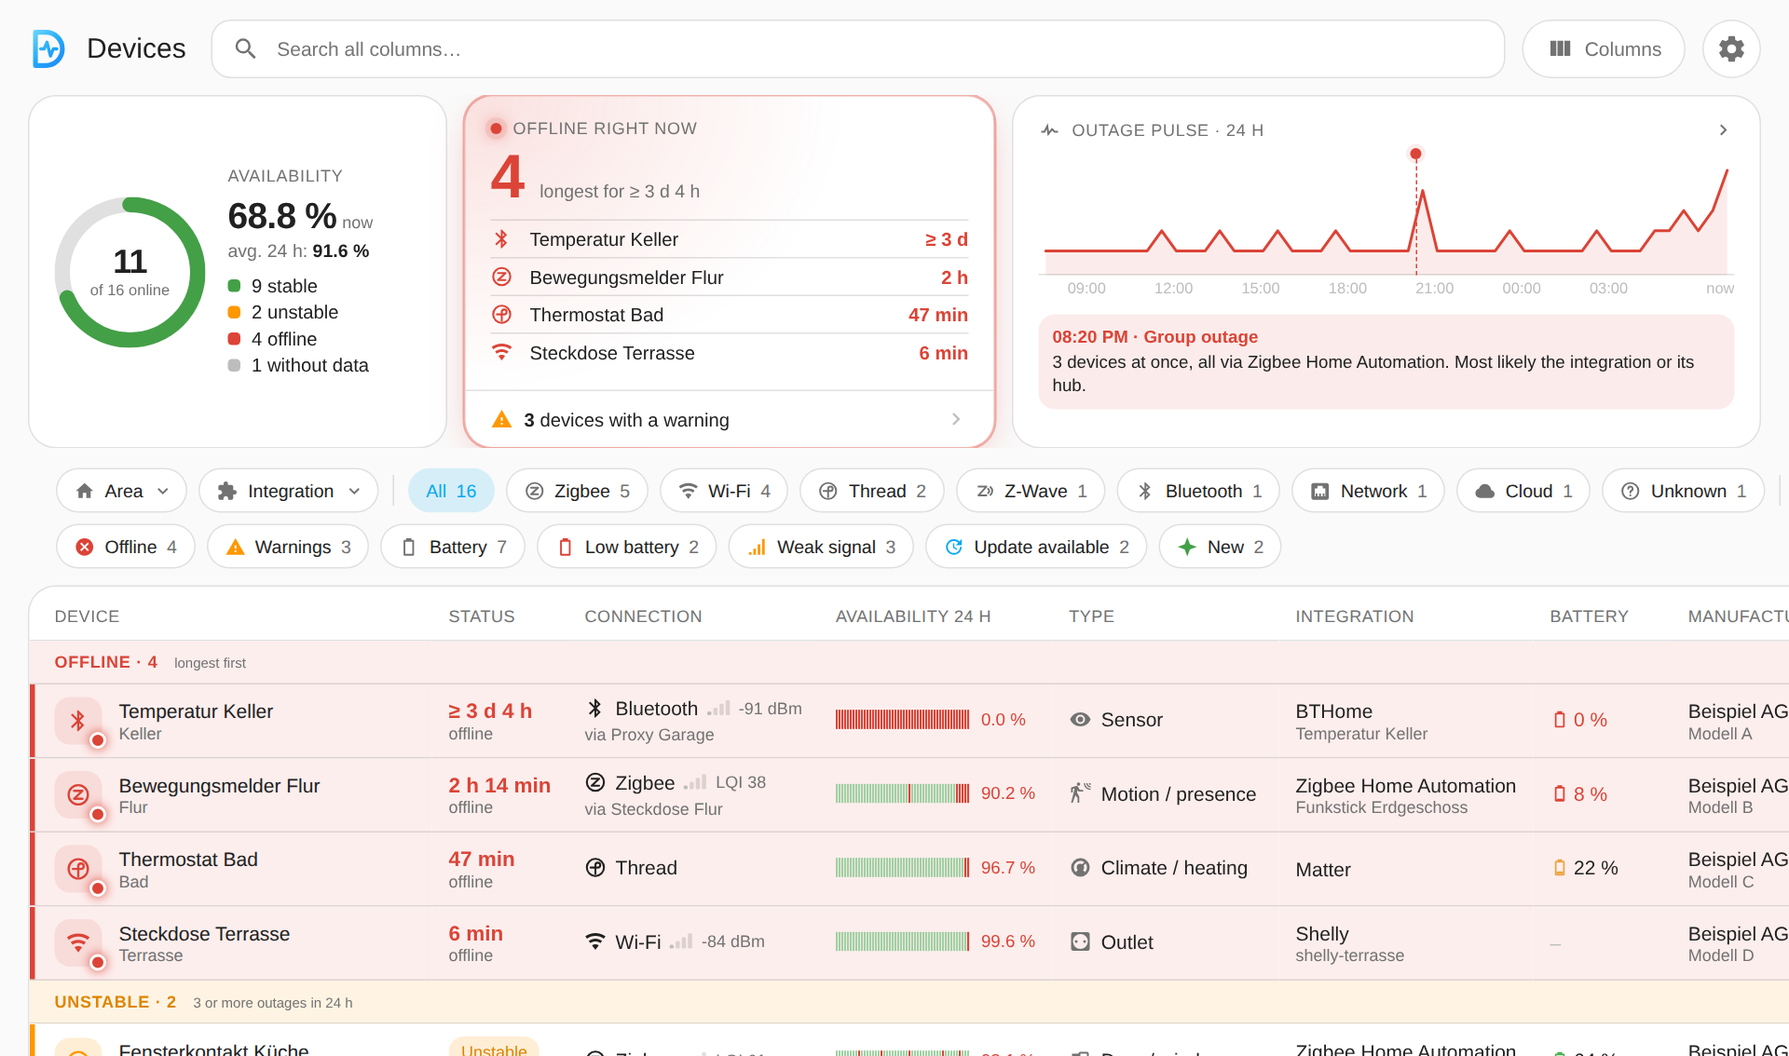
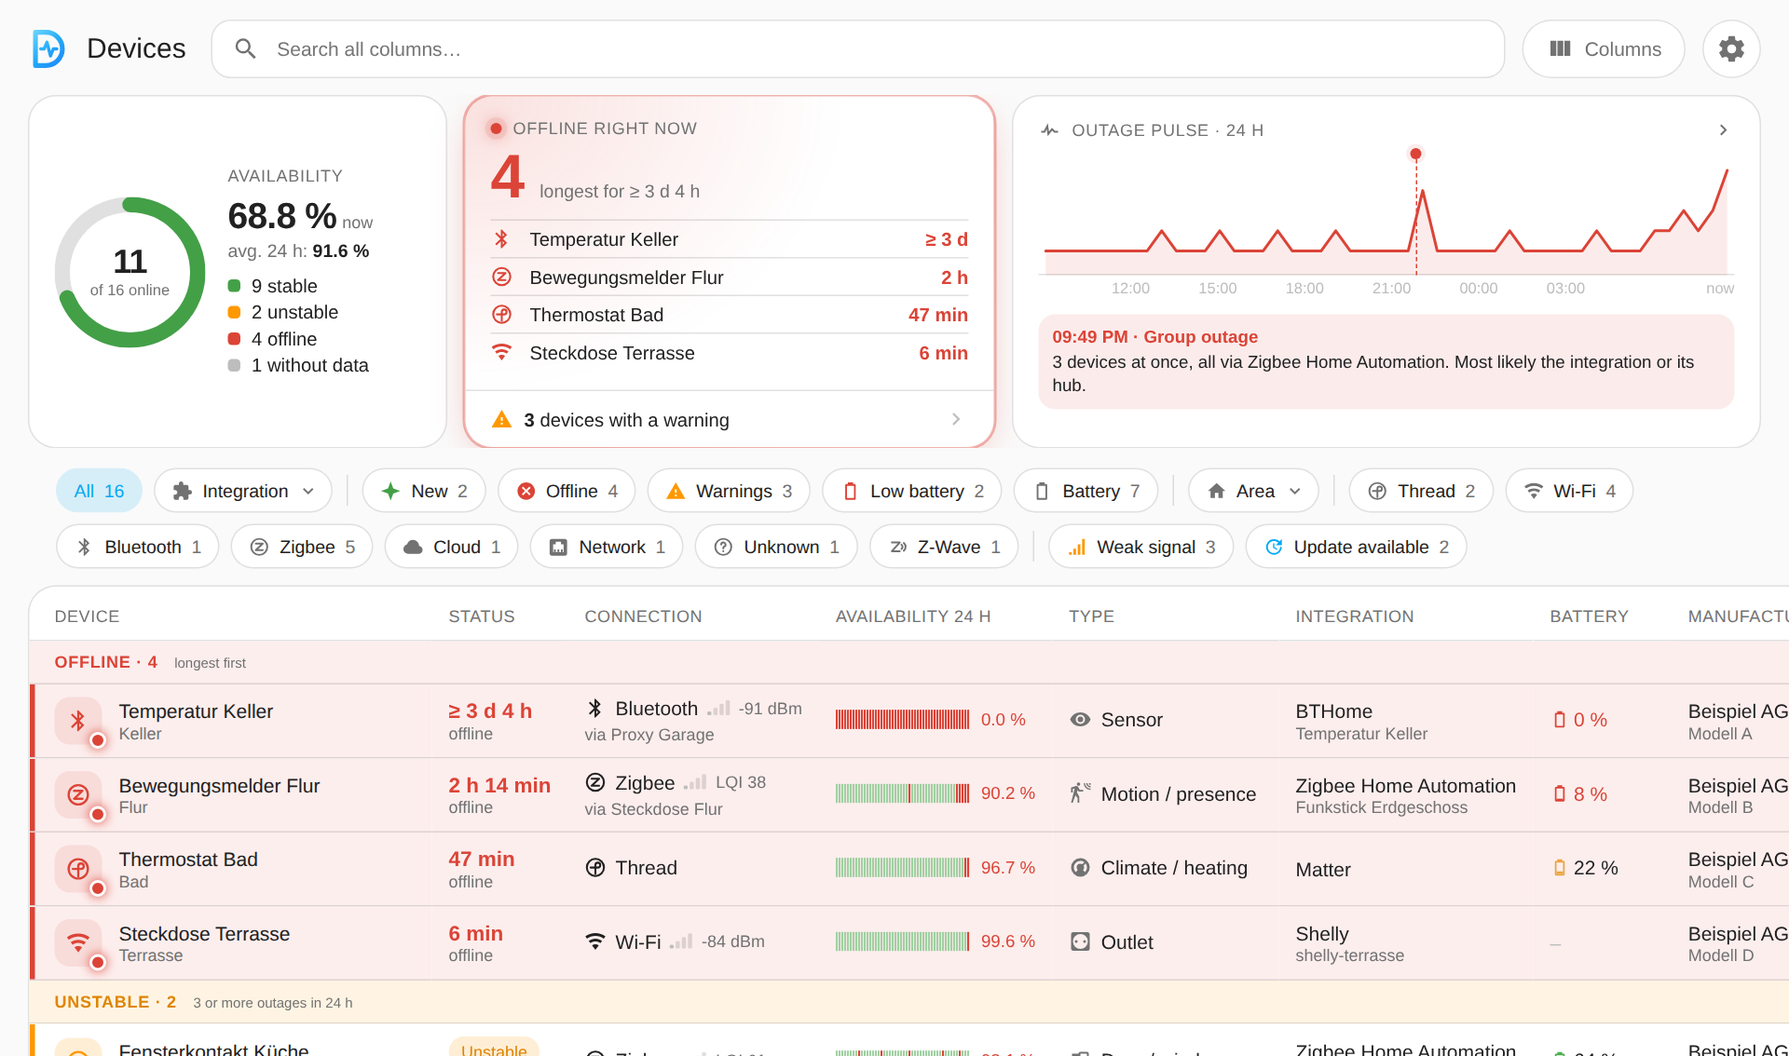
1.18.0: Startwerte für neue Installationen, Haftgruppe deckt Dialog-Kopf nicht mehr ab
- Standardfolge der Chips fest (Panel, CHIP_DEFAULT): "Alle" angeheftet, dann
  Integration, Neu, Ausgefallen, Warnungen, Batterie niedrig, Batterie, Bereich,
  Thread, WLAN, Bluetooth, Zigbee, LAN, Cloud, Matter, Netzwerk, Unbekannt,
  Z-Wave, Schwacher Empfang, Update verfügbar, Eigene Einstellung; gilt auch
  für "Standardreihenfolge"
- const.NEW_INSTALL_OPTIONS beim Einrichten (config_flow): Inhalt der
  Ausfall-Meldung (Bereich, Integration, Verbindungsart, Offline seit,
  Batterie zuletzt), Inhalt der Batterie-Meldung (Stand, Bereich, Integration),
  Chip "Eigene Einstellung" ausgeblendet; Bereich und Z-Wave bleiben sichtbar
- Bestehende Installationen behalten Meldungsinhalt und Chip-Sichtbarkeit
- Fehler: Die Haftgruppe der Chip-Vorschau deckte beim Scrollen den Kopf des
  Dialogs ab (isolation am Streifen, z-index 4 für Kopf und Aktionsleiste)
- Bereichs-Popover öffnet unter dem Chip "Bereich" (nicht unter "Integration")
- Tests: test_init.py, chiporder-e2e (Überdeckung per elementFromPoint), area-,
  chips-, hidechips-, integ-, table-e2e nachgezogen; README-Bilder der Übersicht

Claude-Session: https://claude.ai/code/session_01U1q7hu4Br2u4E6fFdEJMgU

Changed region(s): [[0.0312, 0.4321, 0.9688, 0.5247], [0.6562, 0.2469, 0.9062, 0.2778], [0.5938, 0.2469, 0.625, 0.2778]]

diff --git a/custom_components/device_panel/panel/styles.js b/custom_components/device_panel/panel/styles.js
@@ -403,7 +403,7 @@ dialog.device::backdrop, dialog.settings::backdrop, dialog.view::backdrop, dialo
    klar, welches Fenster gerade gilt. */
 dialog.stat-dlg::backdrop { background: rgba(0,0,0,0.7); -webkit-backdrop-filter: blur(3px); backdrop-filter: blur(3px); }
 :host([stat-open]) dialog.device .dlg-head .dlg-close { visibility: hidden; }
-.dlg-head { position: sticky; top: 0; z-index: 2; display: flex; align-items: flex-start; gap: 14px; padding: 20px 16px 14px 22px; background: var(--dp-card); }
+.dlg-head { position: sticky; top: 0; z-index: 4; display: flex; align-items: flex-start; gap: 14px; padding: 20px 16px 14px 22px; background: var(--dp-card); }
 .dlg-avatar { flex: none; display: grid; place-items: center; width: 52px; height: 52px; border-radius: 15px; background: var(--dp-primary-soft); color: var(--dp-primary); }
 .dlg-avatar.off { background: var(--dp-error-soft); color: var(--dp-error); }
 .dlg-avatar.warn { background: var(--dp-warning-soft); color: var(--dp-warning); }
@@ -426,7 +426,7 @@ dialog.stat-dlg::backdrop { background: rgba(0,0,0,0.7); -webkit-backdrop-filter
 .dlg-note { margin: 8px 0; color: var(--dp-text2); font-size: 14px; }
 .dlg-note.small { font-size: 12px; color: var(--dp-text3); }
 .dlg-error { margin: 8px 0; padding: 10px 12px; border-radius: 10px; background: var(--dp-error-soft); color: var(--dp-error); font-size: 14px; }
-.dlg-actions { position: sticky; bottom: 0; z-index: 2; display: flex; gap: 8px; padding: 14px 22px calc(16px + env(safe-area-inset-bottom, 0px));
+.dlg-actions { position: sticky; bottom: 0; z-index: 4; display: flex; gap: 8px; padding: 14px 22px calc(16px + env(safe-area-inset-bottom, 0px));
   background: var(--dp-card); border-top: 1px solid var(--dp-divider); }
 .dlg-btn { flex: 1 1 auto; display: inline-flex; align-items: center; justify-content: center; gap: 8px; height: 42px; padding: 0 18px;
   border-radius: 12px; border: 1px solid var(--dp-divider); background: none; font-size: 14px; cursor: pointer; }
@@ -588,7 +588,8 @@ dialog.stat-dlg::backdrop { background: rgba(0,0,0,0.7); -webkit-backdrop-filter
 .chip-prev-pills .chip { height: 28px; padding: 0 10px; font-size: 12.5px; pointer-events: none; }
 .chip-prev-t.phone { margin-top: 12px; }
 .chip-prev-pin { display: inline-grid; place-items: center; width: 22px; height: 22px; border-radius: 999px; background: var(--dp-primary); color: #fff; }
-.chip-prev-strip { display: flex; align-items: center; gap: 8px; overflow-x: auto; scrollbar-width: none; margin: 0 -12px; padding: 4px 12px 6px; }
+/* isolation: Die Haftgruppe (sticky, z-index 2) bleibt in der Vorschau und deckt beim Scrollen den Dialog-Kopf nicht ab. */
+.chip-prev-strip { isolation: isolate; display: flex; align-items: center; gap: 8px; overflow-x: auto; scrollbar-width: none; margin: 0 -12px; padding: 4px 12px 6px; }
 .chip-prev-strip::-webkit-scrollbar { display: none; }
 .chip-prev-strip .chip { flex: none; height: 28px; padding: 0 10px; font-size: 12.5px; pointer-events: none; }
 .chip-prev-strip .chip-pin { position: sticky; left: -12px; z-index: 2; flex: none; display: flex; align-items: center; gap: 8px; margin-left: -12px; padding: 4px 12px; background: var(--dp-bg); }

diff --git a/custom_components/device_panel/panel/device-panel.js b/custom_components/device_panel/panel/device-panel.js
@@ -279,6 +279,14 @@ const CHIP_TAIL = CHIP_OTHER.map(([k]) => k).filter((k) => k !== "area" && k !==
 // trennt eine feine Linie. Auswahlfenster (Bereich, Integration), "Alle" mit den
 // Verbindungsarten (genau eine aktiv) und "Nur Probleme" mit den Hinweisen.
 const chipKind = (key) => (key === "area" || key === "integration" ? "scope" : key === "all" || key in CONN ? "conn" : "tail");
+// Standardfolge ohne gespeicherte Folge (seit 1.18.0, nach dem Bildschirmfoto des
+// Nutzers): "Alle" ist angeheftet, dann die Hinweise, dann die Verbindungsarten,
+// hinten die seltenen Chips.
+const CHIP_DEFAULT = [
+  "all", "pin", "integration", "new", "offline", "problems", "battery", "batteries", "area",
+  "thread", "wifi", "ble", "zigbee", "ethernet", "cloud", "matter", "network", "unknown", "zwave",
+  "signal", "update", "override",
+];
 // Vollständige Folge aus der gespeicherten (leer = Standard): Unbekanntes und
 // Doppelte fallen weg. Verbindungsarten ohne Platz (neue Art, ältere Folge)
 // kommen nach Anzahl der Geräte (counts: Art -> Zahl; connOrder: Ausgangsfolge
@@ -288,7 +296,11 @@ function chipOrder(order, connOrder, counts) {
   const types = orderConns(Object.keys(CONN).map((k) => [k, (counts && counts.get(k)) || 0]), connOrder).map(([k]) => k);
   const known = ["pin", "area", "integration", "all", ...Object.keys(CONN), ...CHIP_TAIL];
   const out = (order || []).filter((k, i, a) => known.includes(k) && a.indexOf(k) === i);
-  if (!out.length) return ["pin", "area", "integration", "all", ...types, ...CHIP_TAIL];
+  if (!out.length) {
+    // Nur eine eigene Folge der Verbindungsarten aus 1.12.0 (ohne chip_order) behält ihre Anordnung.
+    if ((connOrder || []).length) return ["pin", "area", "integration", "all", ...types, ...CHIP_TAIL];
+    return [...CHIP_DEFAULT];
+  }
   const missing = types.filter((k) => !out.includes(k));
   if (missing.length) {
     let at = out.reduce((n, k, i) => (k in CONN ? i : n), -1);
@@ -1953,7 +1965,7 @@ class DevicePanel extends HTMLElement {
   // hinaus (der Chip steht nach dem Kopf oft weit unten); die Liste scrollt.
   _placeAreas() {
     const pop = this.shadowRoot.querySelector(".area-pop");
-    const chip = this.shadowRoot.querySelector(this._pickKind === "integ" ? ".chips .chip.integ" : ".chips .chip.area");
+    const chip = this.shadowRoot.querySelector(this._pickKind === "integ" ? ".chips .chip.integ" : ".chips .chip.area:not(.integ)");
     if (!pop || pop.hidden || !chip) return;
     const b = chip.getBoundingClientRect();
     const width = pop.offsetWidth;

diff --git a/tests/test_init.py b/tests/test_init.py
@@ -10,7 +10,8 @@ from homeassistant.helpers import device_registry as dr
 from homeassistant.helpers import entity_registry as er
 from pytest_homeassistant_custom_component.common import MockConfigEntry, async_fire_time_changed
 
-from custom_components.device_panel.const import DATA_AVAILABILITY, DOMAIN
+from custom_components.device_panel.const import DATA_AVAILABILITY, DOMAIN, NEW_INSTALL_OPTIONS
+from custom_components.device_panel.options_api import values_from
 
 
 async def _setup(hass: HomeAssistant) -> MockConfigEntry:
@@ -57,6 +58,33 @@ async def test_single_instance(hass: HomeAssistant) -> None:
     result = await hass.config_entries.flow.async_init(DOMAIN, context={"source": "user"})
     assert result["type"] == "abort"
     assert result["reason"] == "single_instance_allowed"
+
+
+async def test_new_install_starts_with_start_values(hass: HomeAssistant, hass_ws_client) -> None:
+    """Eine neue Installation bekommt die Startwerte (1.18.0); sie gelten nur dort, nicht für bestehende."""
+    result = await hass.config_entries.flow.async_init(DOMAIN, context={"source": "user"})
+    assert result["type"] == "form"
+    result = await hass.config_entries.flow.async_configure(result["flow_id"], {})
+    assert result["type"] == "create_entry"
+    entry = result["result"]
+    await hass.async_block_till_done()
+    assert entry.options == NEW_INSTALL_OPTIONS
+    # Das Panel bekommt sie wie jede andere Option
+    client = await hass_ws_client(hass)
+    await client.send_json({"id": 1, "type": f"{DOMAIN}/get_options"})
+    values = (await client.receive_json())["result"]["values"]
+    assert values["notify_fields"] == ["area", "integration", "connection", "since", "battery"]
+    assert values["battery_fields"] == ["battery", "area", "integration"]
+    assert values["hide_chips"] == ["override"]
+    assert values["hide_connections"] == []
+    # Die Vorlage bleibt unverändert, auch wenn die Optionen geändert werden
+    hass.config_entries.async_update_entry(entry, options={**entry.options, "hide_chips": []})
+    assert NEW_INSTALL_OPTIONS["hide_chips"] == ["override"]
+    # Eine bestehende Installation ohne gespeicherte Werte behält den bisherigen Standard
+    other = MockConfigEntry(domain=DOMAIN, title="Device Panel 2")
+    assert other.options == {}
+    assert values_from(other.options)["notify_fields"] == ["area", "integration", "since"]
+    assert values_from(other.options)["hide_chips"] == []
 
 
 async def test_remove_deletes_own_files(hass: HomeAssistant, hass_ws_client, hass_storage, freezer) -> None:

diff --git a/custom_components/device_panel/const.py b/custom_components/device_panel/const.py
@@ -13,7 +13,7 @@ PANEL_HTML_FILE = "panel.html"
 STATIC_URL_PATH = f"/{DOMAIN}"
 PANEL_STATIC_URL_PATH = f"{STATIC_URL_PATH}/panel"
 # Cache-Buster: bei jeder Änderung unter panel/ von Hand erhöhen.
-PANEL_VERSION = "65"
+PANEL_VERSION = "66"
 PANEL_PAGE_URL = f"{PANEL_STATIC_URL_PATH}/{PANEL_HTML_FILE}?v={PANEL_VERSION}"
 
 # Mitgeliefertes Bild für Push-Meldungen (Companion-App, "icon_url"), wie in
@@ -230,9 +230,9 @@ CHIP_KEYS = ("area", "integration", "offline", "problems", "batteries", "battery
 CONNECTION_TYPES = ("zigbee", "thread", "zwave", "matter", "ble", "wifi", "ethernet", "network", "cloud", "unknown")
 # Reihenfolge aller Chips über der Liste (seit 1.13.0, seit 1.14.0 eine Folge):
 # "all" und jede Verbindungsart sind Einträge wie die übrigen Chips. Leer =
-# Standardfolge (Bereich, Integration, "Alle", Verbindungsarten nach Anzahl der
-# Geräte, dann "Ausgefallen", "Warnungen" und die Hinweise); nicht genannte Chips ordnet
-# das Panel in dieser Folge ein. "connections" (1.13.0: "Alle" mit allen
+# Standardfolge des Panels (seit 1.18.0 feste Folge mit angeheftetem "Alle", vorher
+# Bereich, Integration, "Alle" und Verbindungsarten nach Anzahl der Geräte); nicht
+# genannte Chips ordnet das Panel in dieser Folge ein. "connections" (1.13.0: "Alle" mit allen
 # Verbindungsarten als Block) wird beim Lesen zu "all" und CONF_CONNECTION_ORDER.
 CONF_CHIP_ORDER = "chip_order"
 # "pin" (seit 1.15.0) ist kein Chip, sondern der Anheft-Marker: Die sichtbaren
@@ -240,6 +240,16 @@ CONF_CHIP_ORDER = "chip_order"
 # stehen. Ganz vorn (Standard) = nichts angeheftet.
 CHIP_ORDER_KEYS = (*CHIP_KEYS[:2], "all", *CONNECTION_TYPES, *CHIP_KEYS[2:], "pin")
 CHIP_ORDER_LEGACY_BLOCK = "connections"
+# Startwerte einer neuen Installation (seit 1.18.0, nach dem Bildschirmfoto des
+# Nutzers): Inhalt der Meldungen und der ausgeblendete Chip "Eigene Einstellung"
+# (Bereich und Z-Wave bleiben sichtbar, Entscheid des Nutzers). Sie stehen beim
+# Einrichten in den Optionen; bestehende Installationen behalten, was sie haben.
+# Die Standardfolge der Chips steht im Panel (chipOrder, ohne gespeicherte Folge).
+NEW_INSTALL_OPTIONS = {
+    CONF_NOTIFY_FIELDS: ["area", "integration", "connection", "since", "battery"],
+    CONF_BATTERY_FIELDS: ["battery", "area", "integration"],
+    CONF_HIDE_CHIPS: ["override"],
+}
 # Verbindungsart von Hand (Popup, wie der Typ): alle ausser "unbekannt", das
 # ist der Fall ohne Erkennung, kein Wert zum Wählen.
 CONNECTION_MANUAL = tuple(c for c in CONNECTION_TYPES if c != "unknown")

diff --git a/custom_components/device_panel/config_flow.py b/custom_components/device_panel/config_flow.py
@@ -2,6 +2,7 @@
 
 from __future__ import annotations
 
+from copy import deepcopy
 from typing import Any
 
 import voluptuous as vol
@@ -55,6 +56,7 @@ from .const import (
     CONF_CONNECTION_ORDER,
     CONF_HIDE_CHIPS,
     CONF_HIDE_CONNECTIONS,
+    NEW_INSTALL_OPTIONS,
     CHIP_KEYS,
     CONNECTION_TYPES,
     CONF_NOTIFY_CLICK,
@@ -100,7 +102,7 @@ class ConfigFlow(config_entries.ConfigFlow, domain=DOMAIN):
         self, user_input: dict[str, Any] | None = None
     ) -> config_entries.ConfigFlowResult:
         if user_input is not None:
-            return self.async_create_entry(title=PANEL_TITLE, data={})
+            return self.async_create_entry(title=PANEL_TITLE, data={}, options=deepcopy(NEW_INSTALL_OPTIONS))
         return self.async_show_form(step_id="user")
 
     @staticmethod

diff --git a/CHANGELOG.de.md b/CHANGELOG.de.md
@@ -7,6 +7,38 @@ Alle nennenswerten Änderungen an dieser Integration stehen in dieser Datei.
 Das Format folgt [Keep a Changelog](https://keepachangelog.com/de/1.1.0/),
 die Versionsnummern folgen [Semantic Versioning](https://semver.org/lang/de/).
 
+## [1.18.0] - 2026-10-06
+
+Startwerte für neue Installationen.
+
+### Geändert
+
+- Neue Installationen starten mit den Werten, die der Autor nutzt (Wunsch des
+  Nutzers, nach seinen Bildschirmfotos der Einstellungen):
+  - Reihenfolge der Filter-Chips: zuerst "Alle" (angeheftet), dann Integration,
+    Neu, Ausgefallen, Warnungen, Batterie niedrig, Batterie, Bereich, die
+    Verbindungsarten (Thread, WLAN, Bluetooth, Zigbee, LAN, Cloud, Matter,
+    Netzwerk, Unbekannt, Z-Wave) und zuletzt Schwacher Empfang, Update
+    verfügbar und Eigene Einstellung. Ohne gespeicherte Folge ist das auch, was
+    "Standardreihenfolge" wiederherstellt.
+  - Inhalt der Ausfall-Meldung: Bereich, Integration, Verbindungsart, Offline
+    seit und Batterie zuletzt (vorher: Bereich, Integration, Offline seit).
+  - Inhalt der Batterie-Meldung: Stand, Bereich und Integration (vorher: Stand
+    und Bereich).
+  - Der Chip "Eigene Einstellung" ist ausgeblendet (einschalten unter
+    Einstellungen › Darstellung › Filter-Chips).
+- Der Inhalt der Meldungen und der ausgeblendete Chip gelten nur für neue
+  Installationen, bestehende behalten, was sie haben. Die neue Standardfolge
+  gilt auch für Installationen, die die Reihenfolge der Chips nie geändert haben
+  (bisher: Bereich, Integration, "Alle" und die Verbindungsarten nach Zahl der
+  Geräte); eine gespeicherte Folge bleibt, wie sie ist.
+
+### Behoben
+
+- Unter Einstellungen › Darstellung › Filter-Chips deckt die Vorschau der
+  Handy-Leiste mit den angehefteten Chips beim Scrollen den Kopf des Dialogs
+  nicht mehr ab.
+
 ## [1.17.0] - 2026-10-06
 
 Warnschwelle für den Empfang pro Funkart.
@@ -1542,6 +1574,7 @@ Erste Vorabversion.
 - Tests gegen ein echtes Home Assistant und Playwright-Suiten für das Panel,
   GitHub Actions für die Prüfungen von HACS und hassfest sowie die Tests.
 
+[1.18.0]: https://github.com/Diegofuego871/ha-device-panel/releases/tag/v1.18.0
 [1.17.0]: https://github.com/Diegofuego871/ha-device-panel/releases/tag/v1.17.0
 [1.16.0]: https://github.com/Diegofuego871/ha-device-panel/releases/tag/v1.16.0
 [1.15.0]: https://github.com/Diegofuego871/ha-device-panel/releases/tag/v1.15.0

diff --git a/docs/HANDOVER.md b/docs/HANDOVER.md
@@ -3,7 +3,7 @@
 Einstieg für jede neue Claude-Code-Session. Zuerst diese Datei lesen, dann
 `CLAUDE.md`, `docs/CONCEPT.md`, `docs/LEARNINGS.md`, `docs/DESIGN.md`.
 
-## Stand (1.17.0, Einstellungen in fünf Abschnitten)
+## Stand (1.18.0, Einstellungen in fünf Abschnitten)
 
 - Repository `Diegofuego871/ha-device-panel`, nur Branch `main` (siehe
   `CLAUDE.md`, "Git und Releases").
@@ -383,6 +383,24 @@ Einstieg für jede neue Claude-Code-Session. Zuerst diese Datei lesen, dann
    nimmt jetzt den Optionsnamen (`data-drag`, `data-drag-list`), feste Zeile
    `fixed` (Schalter an, ohne `data-list`), `_dragOrder()`; Standardfolge wird
    als `[]` gespeichert. Tests: `chiporder-e2e.mjs`, `test_update_check.py`.
+   Startwerte für neue Installationen `1.18.0` (Nutzer, 2026-10-06, nach seinen
+   Bildschirmfotos der Einstellungen): Die Standardfolge der Chips ist fest
+   (`CHIP_DEFAULT` im Panel; "Alle", Anheft-Marker, Integration, Neu, Ausgefallen,
+   Warnungen, Batterie niedrig, Batterie, Bereich, Thread, WLAN, Bluetooth,
+   Zigbee, LAN, Cloud, Matter, Netzwerk, Unbekannt, Z-Wave, Schwacher Empfang,
+   Update verfügbar, Eigene Einstellung) und gilt, wo `chip_order` leer ist, auch
+   für bestehende Installationen; nur eine eigene `connection_order` aus 1.12.0
+   ohne `chip_order` behält die alte Anordnung. Inhalt der Meldungen und der
+   ausgeblendete Chip "Eigene Einstellung" stehen als `const.NEW_INSTALL_OPTIONS`
+   in den Optionen einer neu eingerichteten Instanz (`config_flow`, `options=`);
+   bestehende Installationen behalten ihre Werte und den alten Standard
+   (`DEFAULT_NOTIFY_FIELDS`, `DEFAULT_BATTERY_FIELDS`). Bereich und Z-Wave bleiben
+   sichtbar (Entscheid des Nutzers). Dazu der Fehler, dass die Haftgruppe der
+   Chip-Vorschau (sticky, z-index 2) beim Scrollen den Dialog-Kopf überdeckte:
+   `isolation: isolate` am Streifen und z-index 4 für Kopf und Aktionsleiste.
+   Tests: `chiporder-e2e.mjs` (Schritt 1b prüft die Überdeckung mit
+   `elementFromPoint`), `test_init.py`; Standardfolge in `area-`, `chips-`,
+   `hidechips-`, `integ-` und `table-e2e` nachgezogen.
    Empfang-Warnschwelle pro Funkart `1.17.0` (Nutzer, 2026-10-06: "Wi-Fi,
    Bluetooth und Zigbee separat", Sollwert und "Aus" dazu; ohne Mockup, auf
    Empfehlung): Optionen `signal_low` {Verbindungsart: Zahl oder "off"} und

diff --git a/CHANGELOG.md b/CHANGELOG.md
@@ -7,6 +7,37 @@ All notable changes to this integration are documented in this file.
 The format is based on [Keep a Changelog](https://keepachangelog.com/en/1.1.0/),
 and this project adheres to [Semantic Versioning](https://semver.org/).
 
+## [1.18.0] - 2026-10-06
+
+Start values for new installations.
+
+### Changed
+
+- New installations start with the values the author uses (requested by the
+  user, from his settings screenshots):
+  - Order of the filter chips: "All" (pinned) first, then Integration, New,
+    Offline, Warnings, Low battery, Battery, Area, the connection types (Thread,
+    Wi-Fi, Bluetooth, Zigbee, LAN, Cloud, Matter, Network, Unknown, Z-Wave) and
+    last Weak signal, Update available and Own setting. Without a stored order
+    this is also what "Default order" restores.
+  - Content of the outage notification: area, integration, connection type,
+    offline since and last battery level (before: area, integration, offline
+    since).
+  - Content of the battery notification: level, area and integration (before:
+    level and area).
+  - The chip "Own setting" is hidden (it can be switched on in Settings ›
+    Display › Filter chips).
+- The content of the notifications and the hidden chip apply only to new
+  installations, existing ones keep what they have. The new default order also
+  applies to installations that never changed the order of the chips (earlier
+  default: Area, Integration, "All" and the connection types by number of
+  devices); a stored order stays as it is.
+
+### Fixed
+
+- In Settings › Display › Filter chips, the preview of the phone bar with the
+  pinned chips no longer covers the header of the dialog when you scroll.
+
 ## [1.17.0] - 2026-10-06
 
 Signal warning threshold per connection type.
@@ -1483,6 +1514,7 @@ First pre-release.
 - Tests against a real Home Assistant and Playwright suites for the panel,
   GitHub Actions for HACS/hassfest validation and tests.
 
+[1.18.0]: https://github.com/Diegofuego871/ha-device-panel/releases/tag/v1.18.0
 [1.17.0]: https://github.com/Diegofuego871/ha-device-panel/releases/tag/v1.17.0
 [1.16.0]: https://github.com/Diegofuego871/ha-device-panel/releases/tag/v1.16.0
 [1.15.0]: https://github.com/Diegofuego871/ha-device-panel/releases/tag/v1.15.0

diff --git a/docs/DESIGN.md b/docs/DESIGN.md
@@ -210,6 +210,11 @@ Status: online = `--dp-success` (Punkt + Pill "Verbunden"), ausgefallen =
   eine Benachrichtigung auf dem Handy (App-Zeile mit Logo, Titel fett,
   Text, Knöpfe in Primärfarbe), darunter eine Kurzzeile. Schalter des
   Inhalts in zwei Spalten, auf dem Handy in einer.
+- Standardfolge der Filter-Chips (seit 1.18.0, nach dem Bildschirmfoto des Nutzers):
+  "Alle" ist angeheftet (klebt auf dem Handy links), dann Integration, die Hinweise
+  (Neu, Ausgefallen, Warnungen, Batterie niedrig, Batterie), Bereich, die
+  Verbindungsarten (Thread, WLAN, Bluetooth, Zigbee, LAN, Cloud, Matter, Netzwerk,
+  Unbekannt, Z-Wave) und zuletzt Schwacher Empfang, Update und Eigene Einstellung.
 - Empfang-Warnschwelle pro Funkart (seit 1.17.0): Zeilen im Stil der Batterie pro
   Integration (`.opt.bat-row.sig-row`): Funkart links, Auswahl "Standard / Eigene /
   Aus" und bei "Eigene" ein Zahlenfeld mit Einheit (dBm oder LQI); darunter die Zahl

diff --git a/docs/LEARNINGS.md b/docs/LEARNINGS.md
@@ -407,6 +407,14 @@ hat dort einen echten Fehler oder Umweg gekostet.
   nicht mehr. Danach die Liste der Methoden vor und nach dem Eingriff
   vergleichen (`grep -oE "^  _[A-Za-z0-9]+\("` und `diff`).
 
+- **Sticky im scrollenden Dialog überdeckt den sticky Kopf:** Ein Element mit
+  `position: sticky` und `z-index` (die Haftgruppe der Chip-Vorschau, z-index 2)
+  steht im selben Stapel wie der sticky Kopf des Dialogs (ebenfalls 2); bei
+  gleichem z-index gewinnt, was später im DOM steht, und die Gruppe deckt beim
+  Scrollen den Kopf ab. Abhilfe: Streifen mit `isolation: isolate`, Kopf und
+  Aktionsleiste höher (4). Test: das Element unter den Kopf scrollen und mit
+  `elementFromPoint` prüfen, was dort oben liegt.
+
 ## Tests
 ## Tests
 
